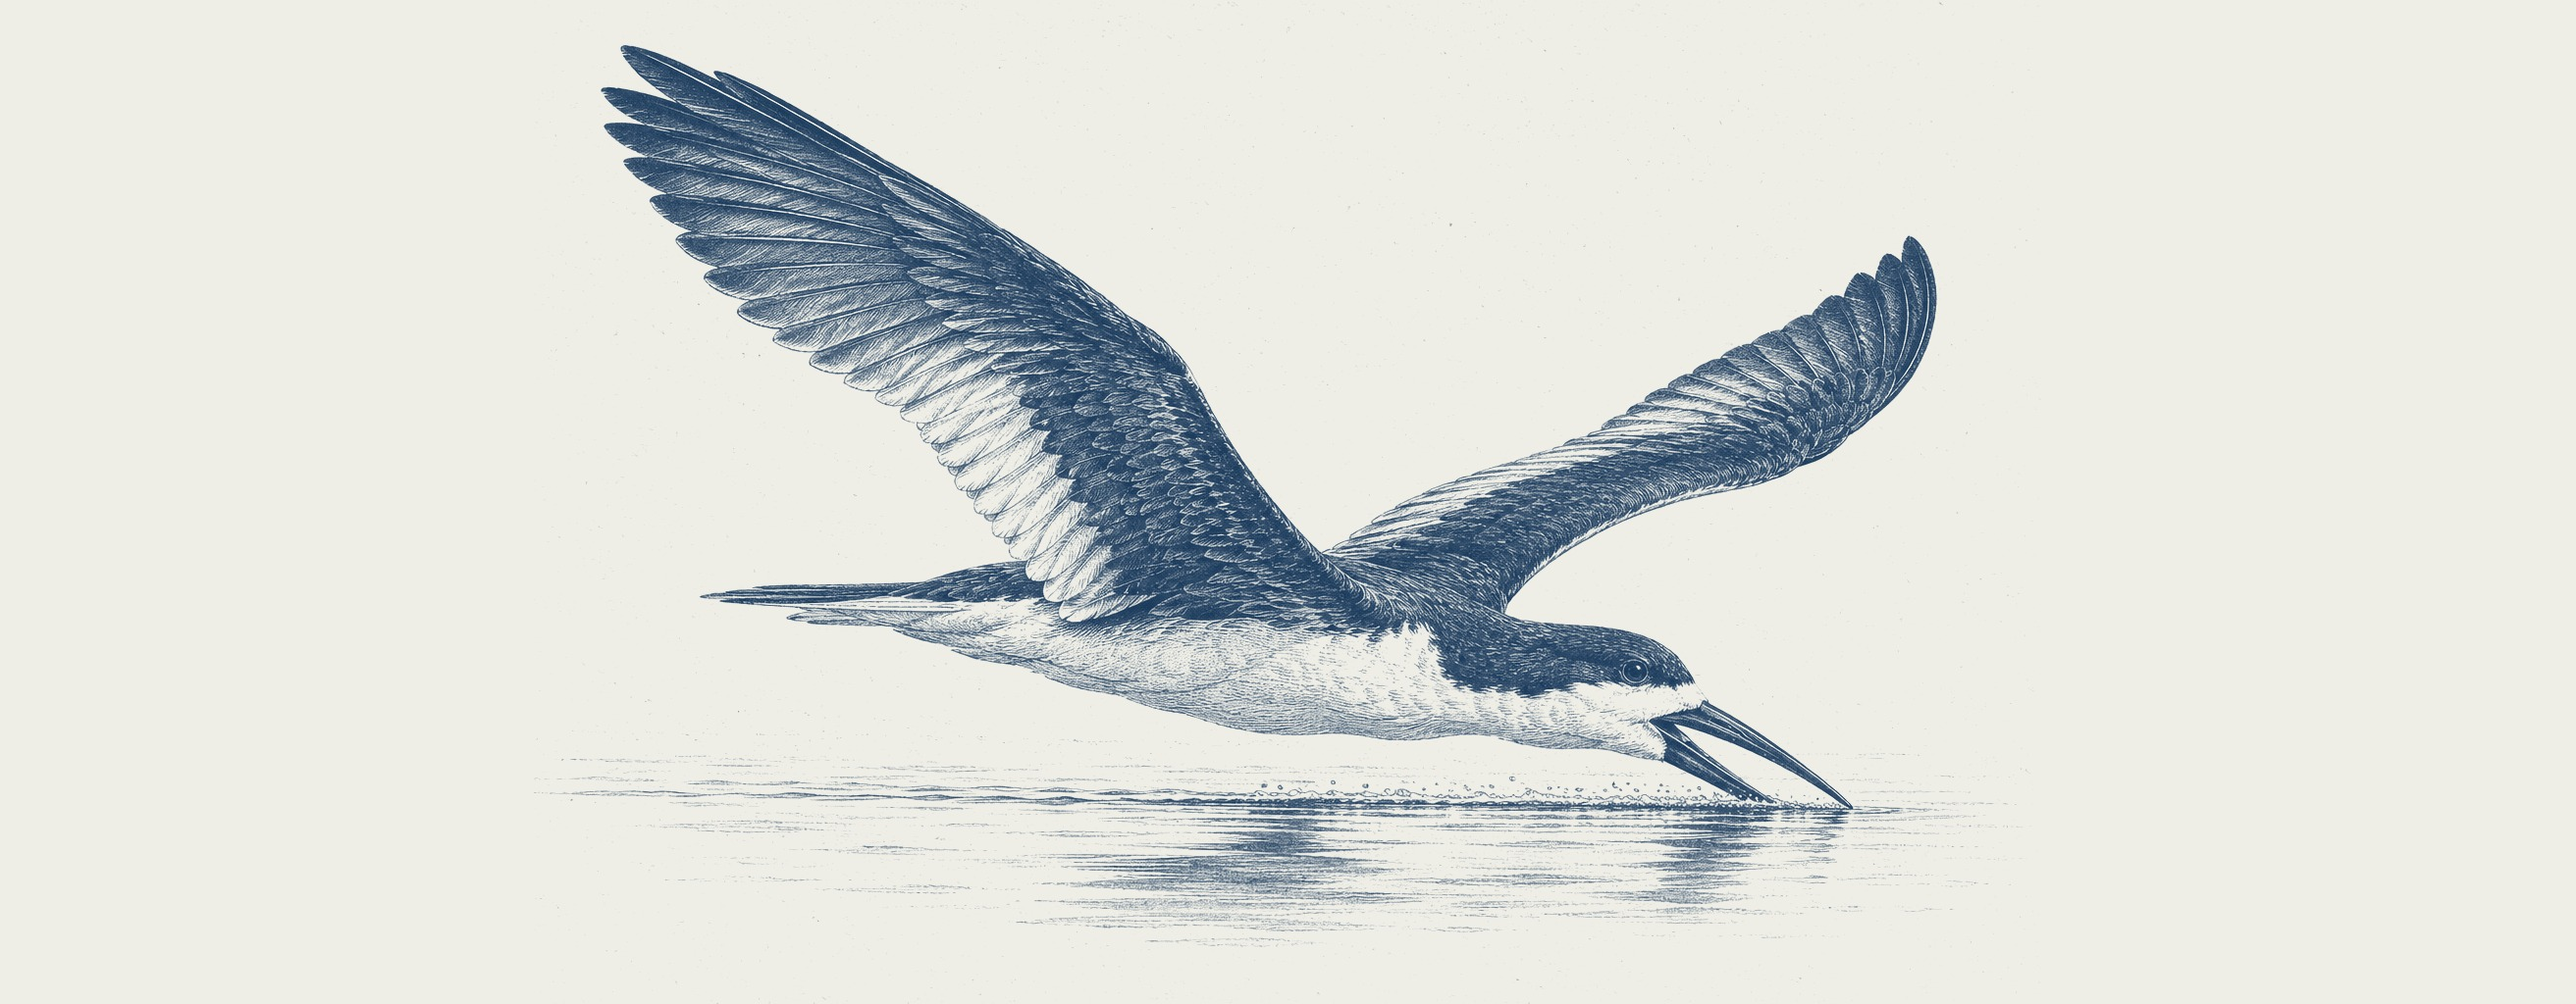
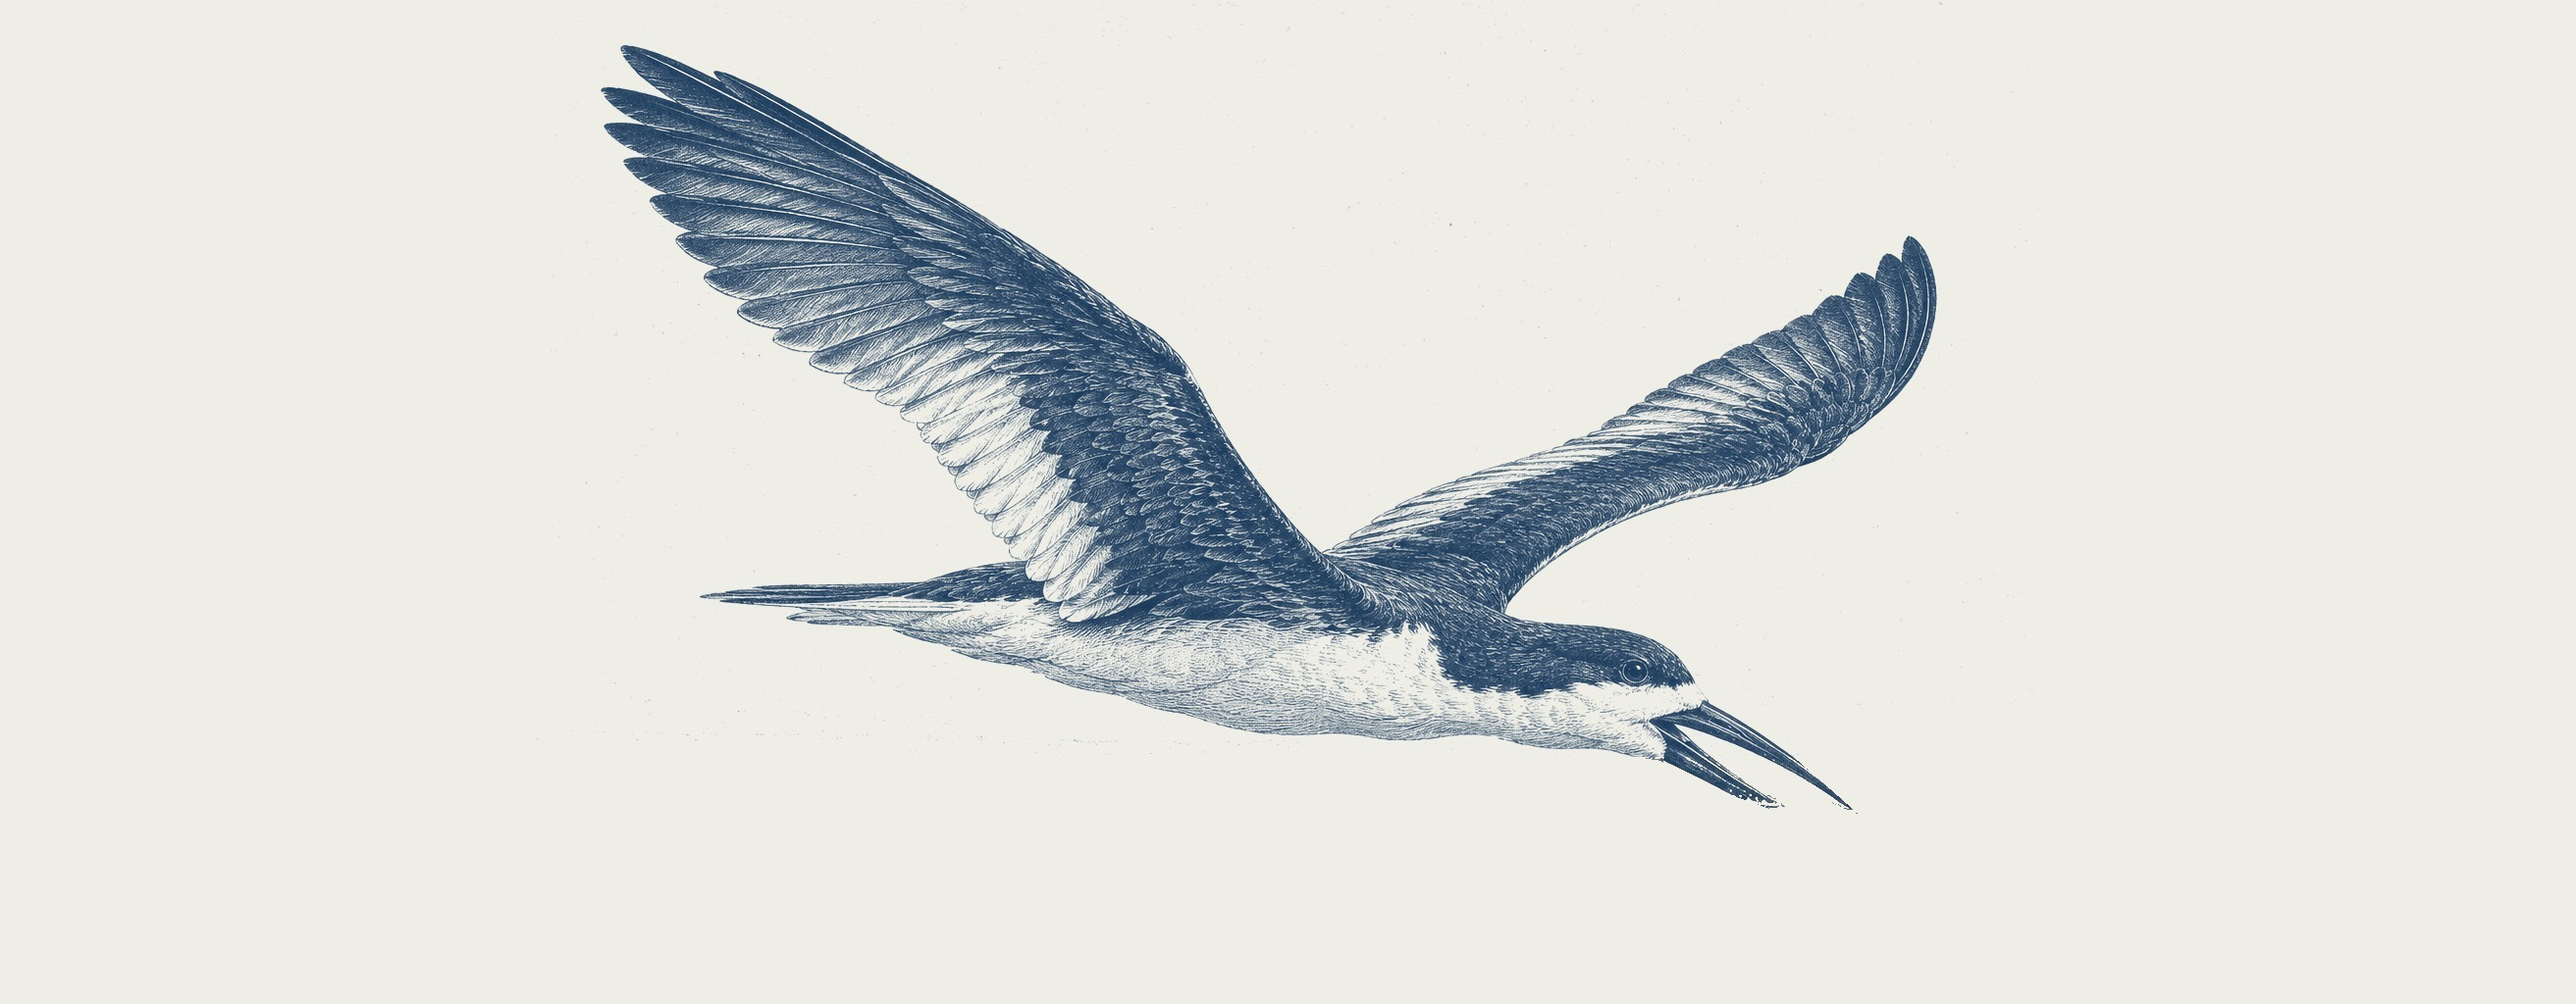
081: picotijera sin agua y algo más chico

Changed region(s): [[0.2187, 0.7812, 0.7497, 0.9375]]

diff --git a/index.html b/index.html
@@ -5,26 +5,26 @@
 <meta charset="utf-8">
 <meta name="viewport" content="width=1280">
 <title>Darwin en la Argentina — libro</title>
-<link rel="stylesheet" href="styles/tokens.css?v=7fd590ea">
-<link rel="stylesheet" href="styles/typography.css?v=7fd590ea">
-<link rel="stylesheet" href="styles/grid.css?v=7fd590ea">
-<link rel="stylesheet" href="styles/components.css?v=7fd590ea">
-<link rel="stylesheet" href="styles/pages.css?v=7fd590ea">
-<link rel="stylesheet" href="styles/maps.css?v=7fd590ea">
-<link rel="stylesheet" href="styles/paradas.css?v=7fd590ea">
-<link rel="stylesheet" href="styles/registros.css?v=7fd590ea">
-<link rel="stylesheet" href="styles/tramo-03.css?v=7fd590ea">
-<link rel="stylesheet" href="styles/tramo-04-05.css?v=7fd590ea">
-<link rel="stylesheet" href="styles/tramo-05-07.css?v=7fd590ea">
-<link rel="stylesheet" href="styles/tramo-07-10.css?v=7fd590ea">
-<link rel="stylesheet" href="styles/tramo-10-15.css?v=7fd590ea">
-<link rel="stylesheet" href="styles/fotos.css?v=7fd590ea">
-<link rel="stylesheet" href="tapa/tapa.css?v=7fd590ea">
-<link rel="stylesheet" href="styles/medida.css?v=7fd590ea">
-<link rel="stylesheet" href="styles/aperturas.css?v=7fd590ea">
-<link rel="stylesheet" href="styles/texto.css?v=7fd590ea">
-<link rel="stylesheet" href="styles/notas.css?v=7fd590ea">
-<link rel="stylesheet" href="styles/print.css?v=7fd590ea">
+<link rel="stylesheet" href="styles/tokens.css?v=e7fa1ca1">
+<link rel="stylesheet" href="styles/typography.css?v=e7fa1ca1">
+<link rel="stylesheet" href="styles/grid.css?v=e7fa1ca1">
+<link rel="stylesheet" href="styles/components.css?v=e7fa1ca1">
+<link rel="stylesheet" href="styles/pages.css?v=e7fa1ca1">
+<link rel="stylesheet" href="styles/maps.css?v=e7fa1ca1">
+<link rel="stylesheet" href="styles/paradas.css?v=e7fa1ca1">
+<link rel="stylesheet" href="styles/registros.css?v=e7fa1ca1">
+<link rel="stylesheet" href="styles/tramo-03.css?v=e7fa1ca1">
+<link rel="stylesheet" href="styles/tramo-04-05.css?v=e7fa1ca1">
+<link rel="stylesheet" href="styles/tramo-05-07.css?v=e7fa1ca1">
+<link rel="stylesheet" href="styles/tramo-07-10.css?v=e7fa1ca1">
+<link rel="stylesheet" href="styles/tramo-10-15.css?v=e7fa1ca1">
+<link rel="stylesheet" href="styles/fotos.css?v=e7fa1ca1">
+<link rel="stylesheet" href="tapa/tapa.css?v=e7fa1ca1">
+<link rel="stylesheet" href="styles/medida.css?v=e7fa1ca1">
+<link rel="stylesheet" href="styles/aperturas.css?v=e7fa1ca1">
+<link rel="stylesheet" href="styles/texto.css?v=e7fa1ca1">
+<link rel="stylesheet" href="styles/notas.css?v=e7fa1ca1">
+<link rel="stylesheet" href="styles/print.css?v=e7fa1ca1">
 </head>
 <body>
 <div class="spread"><div class="slot--empty"></div><section class="page page--cover page--right front" id="ptapa">
@@ -2121,7 +2121,7 @@
       <text class="diagram__label" x="0" y="20.8">árboles y</text><text class="diagram__label" x="0" y="24">trepadoras</text>
     </svg>
     <p class="p081__caption t-data"><span class="notetag notetag--ed">ED</span>«Muy estrecho, sinuoso y profundo.» Corte sin escala.</p>
-    <div class="p081__image foto" style="background-image:url(assets/images/081-picotijera.jpg?v=8d941111)" role="img" aria-label="figura de la edición de 1921: picotijera (Rhynchops nigra) rozando la superficie del agua"></div>
+    <div class="p081__image foto" style="background-image:url(assets/images/081-picotijera.jpg?v=14e84792?v=2)" role="img" aria-label="figura de la edición de 1921: picotijera (Rhynchops nigra) rozando la superficie del agua"></div>
     <p class="p081__note-ed t-data"><span class="notetag notetag--ed">ED</span>En este canal el diario registra, a continuación, el picotijera (<i>Rhynchops nigra</i>, según la edición).</p>
   </div>
   <div class="page__folio"><b>081</b><span>Regreso por el Paraná</span></div>

diff --git a/pages/081.html b/pages/081.html
@@ -20,7 +20,7 @@
       <text class="diagram__label" x="0" y="20.8">árboles y</text><text class="diagram__label" x="0" y="24">trepadoras</text>
     </svg>
     <p class="p081__caption t-data"><span class="notetag notetag--ed">ED</span>«Muy estrecho, sinuoso y profundo.» Corte sin escala.</p>
-    <div class="p081__image foto" style="background-image:url(assets/images/081-picotijera.jpg)" role="img" aria-label="figura de la edición de 1921: picotijera (Rhynchops nigra) rozando la superficie del agua"></div>
+    <div class="p081__image foto" style="background-image:url(assets/images/081-picotijera.jpg?v=2)" role="img" aria-label="figura de la edición de 1921: picotijera (Rhynchops nigra) rozando la superficie del agua"></div>
     <p class="p081__note-ed t-data"><span class="notetag notetag--ed">ED</span>En este canal el diario registra, a continuación, el picotijera (<i>Rhynchops nigra</i>, según la edición).</p>
   </div>
 </section>

diff --git a/styles/notas.css b/styles/notas.css
@@ -190,3 +190,5 @@
 .p081__canal { grid-row: 16 / 23; }
 .p081__caption { grid-row: 23 / 24; align-self: start; padding-top: 1mm; }
 .p081__canal { grid-row: 15 / 23; } .p081__caption { grid-row: 23 / 24; }
+.p081__image { background-size: 82% auto; background-position: center 40%; }
+.p081__image { background-size: 94% auto; background-position: center 25%; }

diff --git a/BOOK_PROGRESS.md b/BOOK_PROGRESS.md
@@ -653,3 +653,4 @@ Se reemplazaron los 39 recuadros de imagen pendiente por ilustraciones generadas
 - 11 nov. 2026 · 076: el diente se separa en dos piezas (076-diente-lado.jpg y 076-diente-corona.jpg, recortes de la misma lámina) con más espacio entre ellas; la vista de lado, más grande, sube hacia el texto; la corona vuelve al tamaño anterior. Reaprobada.
 - 11 nov. 2026 · 077: más aire entre los números grandes y el texto de cada paso.
 - 11 nov. 2026 · 081: el picotijera pasa arriba y el corte del canal abajo (su base termina con el texto).
+- 11 nov. 2026 · 081: se borra el agua y el reflejo bajo el picotijera (la versión con agua queda en originales/081-picotijera-con-agua.jpg) y el pájaro se achica un poco.
